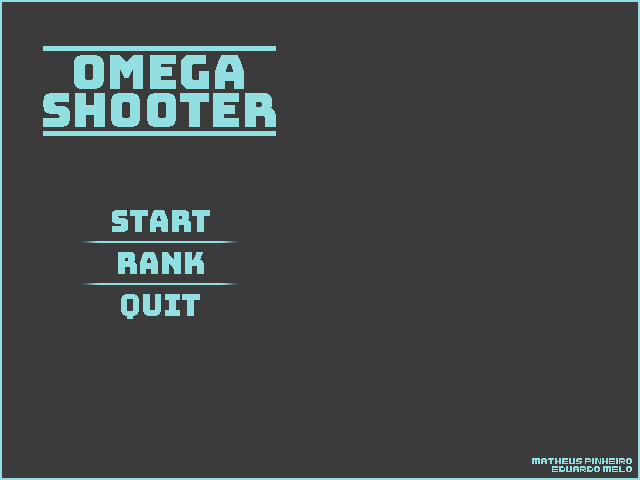
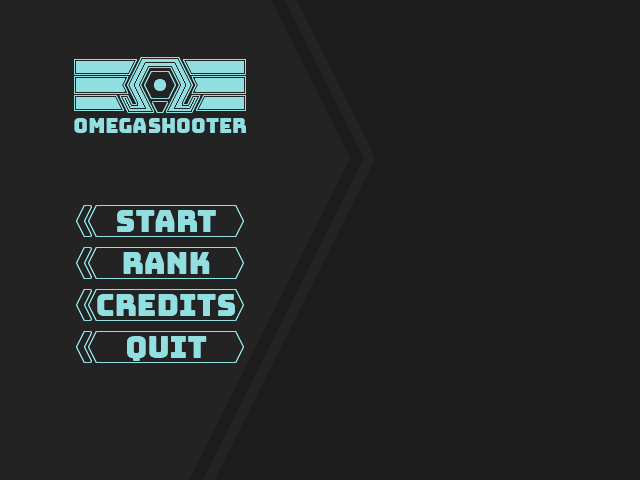
UI Overhaul

diff --git a/Bubble_shooter.c b/Bubble_shooter.c
@@ -167,6 +167,12 @@ UIELEMENT EGMen;
 /*EndGame Ranking*/
 UIELEMENT EGRank;
 
+/*Credits UI*/
+UIELEMENT CredElement;
+
+/*Ranking UI*/
+UIELEMENT RankElement;
+
 /*Ball Grid [Y][X]*/
 NPC ballgrid[20][20];
 
@@ -304,6 +310,9 @@ void drawBACKGROUND(BACKGROUND b);
 /*Displayes UI element on screen*/
 void drawELEMENT(UIELEMENT u, int imageW, int imageH);
 
+/*(tries to) draw a star*/
+void DrawStar();
+
 /*Game Function*/
 void Game();
 
@@ -318,6 +327,12 @@ void Play();
 
 /*Main Menu Function*/
 void MainMenu();
+
+/*Highscores Function*/
+void Highscores();
+
+/*Credits Function*/
+void Credits();
 
 /*Sound Button Function*/
 void Buttons(SDL_Event e);
@@ -676,7 +691,7 @@ NPC createNPC(float posY, float posX,
 void makeBACKGROUND()
 {
   if (interface == 1) backg.image = loadSurface( "./Images/menuBG.png" );
-  if (interface == 2) backg.image = loadSurface( "./Images/BG.png");
+  if (interface == 2 || interface == 3 || interface == 4) backg.image = loadSurface( "./Images/BG.png");
 }
 
 /*
@@ -848,6 +863,18 @@ void RefreshScreen()
 
     }
 
+    /*Highscores Refresh Screen*/
+    if(interface == 3){
+        drawELEMENT(RankElement, 440, 440);
+        drawELEMENT(EGelement, 38, 38);
+    }
+
+    /*Highscores Refresh Screen*/
+    if(interface == 4){
+        drawELEMENT(CredElement, 300, 200);
+        drawELEMENT(EGelement, 38, 38);
+    }
+
     /*Update the surface*/
     SDL_UpdateWindowSurface( gWindow );
 
@@ -916,8 +943,10 @@ void Game(){
             Play();
             break;
         case 3: /*Highscores*/
+            Highscores();
             break;
         case 4: /*Credits*/
+            Credits();
             break;
     }
     RefreshScreen();
@@ -942,6 +971,24 @@ void MainMenu(){
 }
 
 void Highscores(){
+    SDL_Event e;
+
+    while( SDL_PollEvent(&e) != 0)
+    {
+        Buttons(e);
+        switch(e.type){
+            case SDL_QUIT:
+                quit = true;
+            break;
+            case SDL_KEYDOWN:
+                if(e.key.keysym.sym == SDLK_ESCAPE)
+                    quit = true;
+            break;
+        }
+    }
+}
+
+void Credits(){
     SDL_Event e;
 
     while( SDL_PollEvent(&e) != 0)
@@ -987,23 +1034,34 @@ void Buttons(SDL_Event e){
             }
 
         /*Main Menu Buttons*/
-        if(!(Mx > 110 && Mx < 210 && My > 210 && My < 317)){
+        if(!(Mx > 110 && Mx < 210 && My > 210 && My < 359)){
             ArrowElement.image = NULL;
         }
         else if(Mx > 110 && Mx < 210){
             ArrowElement.image = loadSurface("./Images/arrow.png");
             if(My > 210 && My < 235){
-                ArrowElement.posY = 203;
+                ArrowElement.posY = 208;
                 if(e.type == SDL_MOUSEBUTTONDOWN && e.button.button == SDL_BUTTON_LEFT){
                 interface = 2;
                 makeBACKGROUND();
                 }
             }
             if(My > 250 && My < 275){
-                ArrowElement.posY = 245;
+                ArrowElement.posY = 250;
+                if(e.type == SDL_MOUSEBUTTONDOWN && e.button.button == SDL_BUTTON_LEFT){
+                    interface = 3;
+                    makeBACKGROUND();
+                }
             }
             if(My > 290 && My < 317){
-                ArrowElement.posY = 287;
+                ArrowElement.posY = 292;
+                if(e.type == SDL_MOUSEBUTTONDOWN && e.button.button == SDL_BUTTON_LEFT){
+                    interface = 4;
+                    makeBACKGROUND();
+                }
+            }
+            if(My > 332 && My < 359){
+                ArrowElement.posY = 334;
                 if(e.type == SDL_MOUSEBUTTONDOWN && e.button.button == SDL_BUTTON_LEFT){
                     quit = true;
                 }
@@ -1013,7 +1071,7 @@ void Buttons(SDL_Event e){
 
     }
 
-    if(interface == 2){
+    if(interface == 2 || interface == 3 || interface == 4){
         /*End Game Button*/
         if((Mx < (SCREEN_WIDTH - 2*IMAGE_WIDTH + 38) && Mx > (SCREEN_WIDTH - 2*IMAGE_WIDTH -2)
         && My > (SCREEN_HEIGHT- 41) && My < (SCREEN_HEIGHT - 41 + 38))
@@ -1037,7 +1095,6 @@ void Buttons(SDL_Event e){
               cleanGrid();
               makeBACKGROUND();
               EGelement.image = loadSurface("./Images/menuBlue.png");
-              /*interface = 3*/
             }
             if(!(Mx < (268) && Mx > (238) && My < (274) && My > (238) )){
                 switch(ThreatLevel){
@@ -1133,6 +1190,16 @@ void Buttons(SDL_Event e){
           && My < (274) && My > (238)){
               if(ThreatLevel == 3) EGRank.image = loadSurface("./Images/rankHoverRed.png");
               if(ThreatLevel == 1) EGRank.image = loadSurface("./Images/rankHoverBlue.png");
+              if(e.type == SDL_MOUSEBUTTONDOWN && e.button.button == SDL_BUTTON_LEFT){
+                EGUI.image = NULL;
+                EGR.image = NULL;
+                EGRank.image = NULL;
+                EGMen.image = NULL;
+                interface = 3;
+                ThreatLevel = 1;
+                printf("%d\n", ThreatLevel);
+                play = 0;
+              }
           }
           else{
               if(ThreatLevel == 3) EGRank.image = loadSurface("./Images/rankRed.png");
@@ -1465,7 +1532,7 @@ int PrepareGame()
                   NULL);
 
   ArrowElement = createELEMENT(
-                    72,
+                    79,
                     -38,
                     0,
                     NULL);
@@ -1499,6 +1566,18 @@ int PrepareGame()
                     238,
                     0,
                     NULL);
+
+ CredElement = createELEMENT(
+                    SCREEN_WIDTH/2-150,
+                    SCREEN_HEIGHT/2-100,
+                    0,
+                    loadSurface("./Images/credits.png"));
+
+ RankElement = createELEMENT(
+                    SCREEN_WIDTH/2-220,
+                    SCREEN_HEIGHT/2-220,
+                    0,
+                    loadSurface("./Images/TopPlayers.png"));
 
   return 0;
 }
@@ -2073,4 +2152,28 @@ void GetInput(SDL_Event e){
         SDL_FreeSurface(NickSurface);
 
         TTF_CloseFont( font );
+}
+
+void DrawStar(){
+    SDL_Surface* StarSurface = NULL;
+    SDL_Rect Star_Rect;
+
+    static int spriteimg = 0;
+
+    if(spriteimg == 0){
+        Star_Rect.x = SCREEN_WIDTH/2;
+        Star_Rect.y = SCREEN_HEIGHT/2;
+        Star_Rect.w = 4;
+        Star_Rect.h = 4;
+    }
+
+        if (spriteimg<50) StarSurface = loadSurface("./Images/star1_0.png");
+        if (spriteimg < 100 && spriteimg >= 0) StarSurface = loadSurface("./Images/star1_1.png");
+        if (spriteimg < 150 && spriteimg >= 100) StarSurface = loadSurface("./Images/star1_2.png");
+
+    SDL_BlitSurface( StarSurface, NULL, gScreenSurface, &Star_Rect );
+    SDL_FreeSurface(StarSurface);
+
+    spriteimg++;
+    if (spriteimg > 150) spriteimg = 0;
 }
